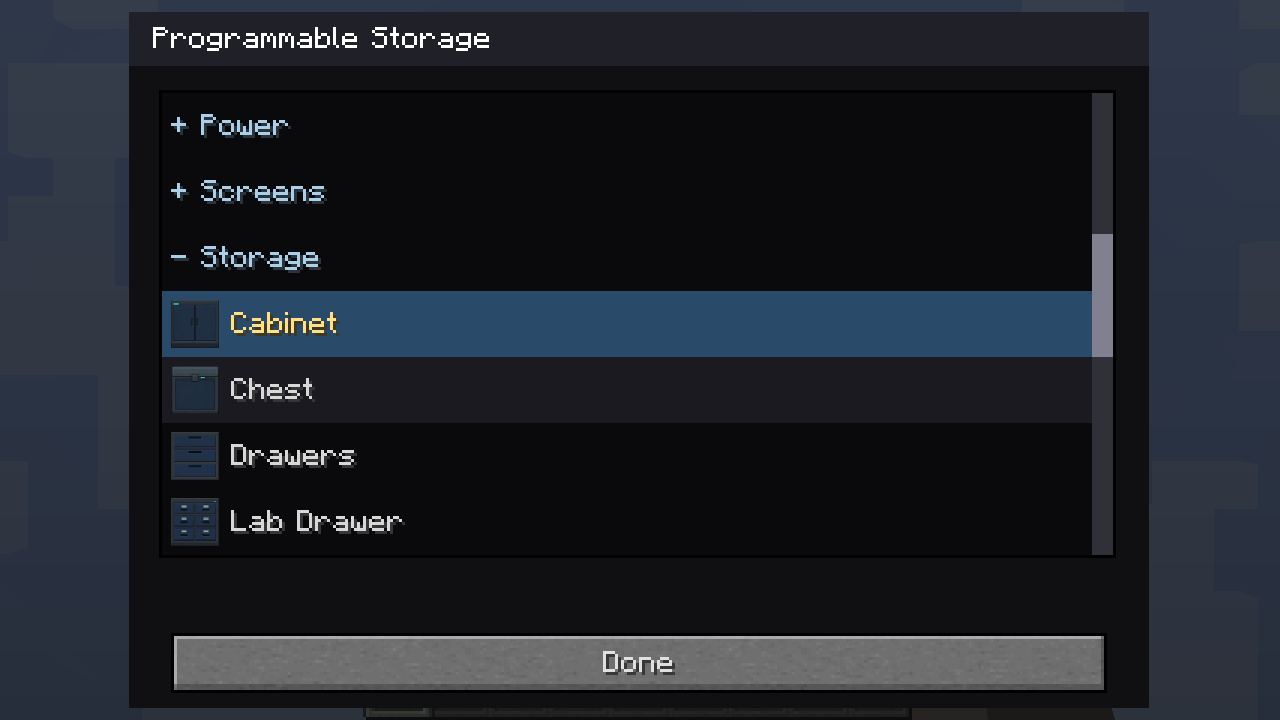
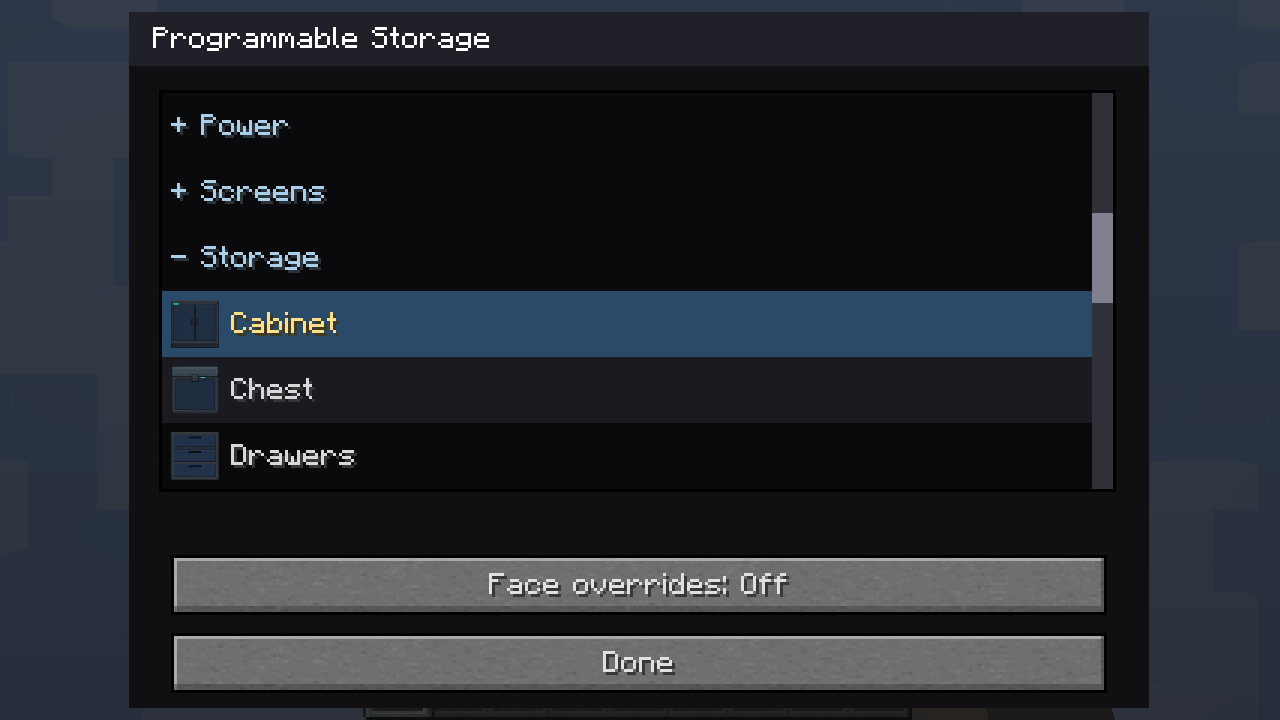
Support per-face texture overrides on programmable storage

Changed region(s): [[0.125, 0.6722, 0.875, 0.8556], [0.8438, 0.3972, 0.875, 0.5194], [0.8438, 0.275, 0.875, 0.3361]]

diff --git a/src/main/java/com/vandorlabs/client/StorageRuntimeChecks.java b/src/main/java/com/vandorlabs/client/StorageRuntimeChecks.java
@@ -31,9 +31,12 @@ final class StorageRuntimeChecks {
         for (int i = 0; i < 27; i++) tile.setInventorySlotContents(i, new ItemStack(Items.IRON_INGOT, 64));
         require(block.getComparatorInputOverride(world.getBlockState(pos), world, pos) == 15, "full comparator");
         require(tile.getStackInSlot(26).getCount() == 64, "last slot available");
+        FaceTextures overrides = new FaceTextures(true, new int[]{-1,1,3,-1,-1,-1});
+        tile.setFaceTextures(overrides);
         NBTTagCompound saved = tile.writeToNBT(new NBTTagCompound());
         TileEntityProgrammableStorage loaded = new TileEntityProgrammableStorage();
         loaded.readFromNBT(saved);
+        require(loaded.getFaceTextures().equals(overrides), "face override persistence");
         require(loaded.getStackInSlot(26).getCount() == 64, "inventory persistence");
         require(!tile.getUpdateTag().hasKey("Items"), "appearance packet contains inventory");
         require(!block.createConfiguredDrop(tile).getSubCompound("BlockEntityTag").hasKey("Items"), "pick/mining drop duplicates inventory");
@@ -43,8 +46,15 @@ final class StorageRuntimeChecks {
         require(ProgrammableSettings.apply(world, other, settings), "Duplifier applies appearance");
         require(target.getHousingTexture() == tile.getHousingTexture() && target.getStackInSlot(0).getCount() == 7
                 && target.getStackInSlot(0).getItem() == Items.DIAMOND, "copy preserves target contents");
+        require(target.getFaceTextures().equals(overrides), "copy includes face overrides");
         ItemStack configured = ProgrammableSettings.applyToItem(new ItemStack(block), settings);
         require(!configured.isEmpty() && !configured.getSubCompound("BlockEntityTag").hasKey("Items"), "crafted copy excludes inventory");
+        loaded.readFromNBT(configured.getSubCompound("BlockEntityTag"));
+        require(loaded.getFaceTextures().equals(overrides), "configured item preserves faces");
+        tile.setFaceTextures(new FaceTextures(false, new int[]{2,2,2,2,2,2}));
+        ProgrammableSettings.apply(world, other, ProgrammableSettings.capture(world, pos));
+        require(!target.getFaceTextures().enabled && target.getFaceTextures().choice(1)==1
+                && target.getStackInSlot(0).getCount()==7,"disabled copy retains stored faces and contents");
         tile.clear();
         require(block.getComparatorInputOverride(world.getBlockState(pos), world, pos) == 0, "empty comparator");
         for (EnumFacing face : EnumFacing.values()) {
@@ -109,6 +119,13 @@ final class StorageRuntimeChecks {
         for(net.minecraft.client.renderer.block.model.BakedQuad quad:model.getQuads(state.getBlock().getExtendedState(state,mc.world,pos),null,0))sprites.add(quad.getSprite().getIconName());
         require(sprites.size()==3 && sprites.contains("vandorlabs:blocks/storage/cabinet_front")
                 && sprites.contains("vandorlabs:blocks/storage/cabinet_top") && sprites.contains("vandorlabs:blocks/storage/cabinet_side"),"three matching world faces");
+        int[] sameSet={-1,ScreenHousingTextures.DEFAULT_STORAGE,-1,-1,-1,-1};
+        tile.setFaceTextures(new FaceTextures(true,sameSet));
+        java.util.List<net.minecraft.client.renderer.block.model.BakedQuad> overridden=model.getQuads(state.getBlock().getExtendedState(state,mc.world,pos),null,0);
+        require(overridden.get(0).getSprite().getIconName().endsWith("cabinet_front"),"explicit top override uses selected artwork, not set top");
+        tile.setFaceTextures(new FaceTextures(false,sameSet));
+        require(model.getQuads(state.getBlock().getExtendedState(state,mc.world,pos),null,0).get(0).getSprite().getIconName().endsWith("cabinet_top"),"disabled override restores cached set top");
+        tile.setFaceTextures(FaceTextures.DEFAULT);
         net.minecraft.client.renderer.block.model.IBakedModel item=mc.getRenderItem().getItemModelWithOverrides(new ItemStack(ModBlocks.PROGRAMMABLE_STORAGE),mc.world,mc.player);
         require(item.getParticleTexture().getIconName().equals("vandorlabs:blocks/storage/cabinet_front"),"default inventory material");
         System.out.println("[vandorlabs][reprolab] storage-material-runtime PASS");
@@ -135,6 +152,24 @@ final class StorageRuntimeChecks {
                 && sprites.contains("vandorlabs:blocks/storage/"+set+"_side") && sprites.contains("vandorlabs:blocks/storage/"+set+"_top"),"hotbar uses matching set "+set);
         }
         System.out.println("[vandorlabs][reprolab] storage-hotbar-runtime PASS");
+    }
+
+    static void beginFaces(GuiProgrammableWall gui) {
+        gui.actionPerformed(new net.minecraft.client.gui.GuiButton(106,0,0,""));
+        gui.actionPerformed(new net.minecraft.client.gui.GuiButton(107,0,0,""));
+        gui.actionPerformed(new net.minecraft.client.gui.GuiButton(107,0,0,""));
+        try {
+            java.lang.reflect.Method choose=GuiProgrammableWall.class.getDeclaredMethod("choose",int.class);
+            choose.setAccessible(true);choose.invoke(gui,ScreenHousingTextures.DEFAULT_STORAGE);
+        } catch(ReflectiveOperationException e){throw new IllegalStateException(e);}
+    }
+    static void checkFaces(net.minecraft.client.Minecraft mc, BlockPos pos, boolean inherited) {
+        for(World world:new World[]{mc.world,mc.getIntegratedServer().getWorld(0)}) {
+            TileEntityProgrammableStorage tile=(TileEntityProgrammableStorage)world.getTileEntity(pos);
+            require(tile.getFaceTextures().enabled && tile.getFaceTextures().choice(1)==(inherited?-1:ScreenHousingTextures.DEFAULT_STORAGE),"face picker synchronized "+inherited);
+            if(!world.isRemote)require(tile.getStackInSlot(0).getCount()==32,"face picker preserves inventory");
+        }
+        System.out.println("[vandorlabs][reprolab] storage-faces-gui PASS " +(inherited?"inherited":"override"));
     }
 
 }

diff --git a/src/main/java/com/vandorlabs/client/ProgrammableHousingModel.java b/src/main/java/com/vandorlabs/client/ProgrammableHousingModel.java
@@ -68,19 +68,20 @@ public final class ProgrammableHousingModel implements IBakedModel {
             EnumFacing worldFace = worldFace(FACE[local], facing);
             if ((visible & (1 << worldFace.getIndex())) == 0) continue;
             int texture = faces.texture(FACE[local].getIndex(), finish);
+            final boolean storageSet = storage && !(faces.enabled && faces.choice(FACE[local].getIndex()) >= 0);
             long key = (((((long)texture * 6 + facing.getIndex()) * 2 + (upper ? 1 : 0)) * 2
-                    + (tileSides != 0 ? 1 : 0)) * 6 + local);
+                    + (tileSides != 0 ? 1 : 0)) * 6 + local) * 2 + (storageSet ? 1 : 0);
             final int faceIndex = local;
             final boolean tiled = tileSides != 0;
             result.add(variants.computeIfAbsent(key,
-                    ignored -> build(texture, facing, upper, tiled, faceIndex)));
+                    ignored -> build(texture, facing, upper, tiled, faceIndex, storageSet)));
         }
         return result;
     }
 
-    private BakedQuad build(int finish, EnumFacing facing, boolean upper, boolean tileSides, int i) {
+    private BakedQuad build(int finish, EnumFacing facing, boolean upper, boolean tileSides, int i, boolean storageSet) {
         TextureAtlasSprite sprite = Minecraft.getMinecraft().getTextureMapBlocks()
-                .getAtlasSprite(storage ? ScreenHousingTextures.storageTexture(finish, FACE[i]) : ScreenHousingTextures.texture(finish));
+                .getAtlasSprite(storageSet ? ScreenHousingTextures.storageTexture(finish, FACE[i]) : ScreenHousingTextures.texture(finish));
         ScreenHousingMesh mesh = slab ? ScreenHousingMesh.slab(upper, tileSides)
                 : ScreenHousingMesh.cube();
         int rotation = ((int)(180 - facing.getHorizontalAngle()) / 90) & 3;

diff --git a/src/main/java/com/vandorlabs/items/ProgrammableSettings.java b/src/main/java/com/vandorlabs/items/ProgrammableSettings.java
@@ -148,7 +148,7 @@ public final class ProgrammableSettings {
         } else if (tile instanceof TileEntityAnimatedScreenSelector) {
             TileEntityAnimatedScreenSelector screen = (TileEntityAnimatedScreenSelector) tile;
             out.setInteger(WALL_TEXTURE, screen.getHousingTexture());
-            if (block == ModBlocks.PROGRAMMABLE_BLOCK || block == ModBlocks.PROGRAMMABLE_SLAB || block == ModBlocks.PROGRAMMABLE_STAIRS) {
+            if (block == ModBlocks.PROGRAMMABLE_STORAGE || block == ModBlocks.PROGRAMMABLE_BLOCK || block == ModBlocks.PROGRAMMABLE_SLAB || block == ModBlocks.PROGRAMMABLE_STAIRS) {
                 NBTTagCompound faces = new NBTTagCompound();
                 faces.setBoolean("enabled", screen.getFaceTextures().enabled);
                 if (screen.getFaceTextures().enabled)
@@ -382,7 +382,7 @@ public final class ProgrammableSettings {
                 screen.setHousingTexture(values.getInteger(WALL_TEXTURE));
                 applicable = true;
             }
-            if ((block == ModBlocks.PROGRAMMABLE_BLOCK || block == ModBlocks.PROGRAMMABLE_SLAB || block == ModBlocks.PROGRAMMABLE_STAIRS)
+            if ((block == ModBlocks.PROGRAMMABLE_STORAGE || block == ModBlocks.PROGRAMMABLE_BLOCK || block == ModBlocks.PROGRAMMABLE_SLAB || block == ModBlocks.PROGRAMMABLE_STAIRS)
                     && values.hasKey(FACE_TEXTURES, 10)) {
                 NBTTagCompound faces = values.getCompoundTag(FACE_TEXTURES);
                 boolean enabled = faces.getBoolean("enabled");

diff --git a/src/main/java/com/vandorlabs/network/MessageFaceTextures.java b/src/main/java/com/vandorlabs/network/MessageFaceTextures.java
@@ -10,7 +10,7 @@ import net.minecraft.tileentity.TileEntity;
 import net.minecraft.util.math.BlockPos;
 import net.minecraftforge.fml.common.network.simpleimpl.*;
 
-/** Configures optional local-face overrides for the full block and slab. */
+/** Configures optional local-face overrides for supported programmable solid blocks. */
 public final class MessageFaceTextures implements IMessage {
     private BlockPos pos;
     private boolean enabled;
@@ -35,7 +35,7 @@ public final class MessageFaceTextures implements IMessage {
                         || !com.vandorlabs.items.ConfigurationAccess.canConfigure(player)
                         || !(player.openContainer instanceof ContainerAnimatedScreenSelector)) return;
                 net.minecraft.block.Block block = player.world.getBlockState(msg.pos).getBlock();
-                if (block != ModBlocks.PROGRAMMABLE_BLOCK && block != ModBlocks.PROGRAMMABLE_SLAB && block != ModBlocks.PROGRAMMABLE_STAIRS) return;
+                if (block != ModBlocks.PROGRAMMABLE_STORAGE && block != ModBlocks.PROGRAMMABLE_BLOCK && block != ModBlocks.PROGRAMMABLE_SLAB && block != ModBlocks.PROGRAMMABLE_STAIRS) return;
                 for (int choice : msg.choices)
                     if (choice < -1 || (choice!=-1 && !com.vandorlabs.tiles.ScreenHousingTextures.validChoice(choice))) return;
                 ContainerAnimatedScreenSelector container = (ContainerAnimatedScreenSelector) player.openContainer;

diff --git a/src/main/java/com/vandorlabs/client/ReproLab.java b/src/main/java/com/vandorlabs/client/ReproLab.java
@@ -1297,6 +1297,17 @@ public class ReproLab {
                 StorageRuntimeChecks.require(mc.currentScreen instanceof GuiProgrammableWall,"creative shift interaction opens shared picker");
                 save(mc,new Shot("gallery_storage_picker",0,0,0,0,0));
                 System.out.println("[vandorlabs][reprolab] storage-gui-runtime PASS");
+                StorageRuntimeChecks.beginFaces((GuiProgrammableWall)mc.currentScreen);
+                state=105;holdTicks=30;break;
+            case 105:
+                if(--holdTicks>0)break;
+                StorageRuntimeChecks.checkFaces(mc,new BlockPos(GALLERY_X-4,GALLERY_Y,-18),false);
+                save(mc,new Shot("gallery_storage_face_overrides",0,0,0,0,0));
+                ((GuiProgrammableWall)mc.currentScreen).actionPerformed(new net.minecraft.client.gui.GuiButton(108,0,0,""));
+                state=106;holdTicks=30;break;
+            case 106:
+                if(--holdTicks>0)break;
+                StorageRuntimeChecks.checkFaces(mc,new BlockPos(GALLERY_X-4,GALLERY_Y,-18),true);
                 mc.player.closeScreen();
                 for(int slot=0;slot<3;slot++)mc.player.inventory.setInventorySlotContents(slot,StorageRuntimeChecks.hotbarStack(slot));
                 onServer(mc, () -> {

diff --git a/src/main/java/com/vandorlabs/client/GuiProgrammableWall.java b/src/main/java/com/vandorlabs/client/GuiProgrammableWall.java
@@ -40,7 +40,8 @@ public class GuiProgrammableWall extends GuiContainer {
     private static final String[] FACE_NAMES = {"Bottom", "Top", "Front", "Back", "Left", "Right"};
     private boolean supportsFaces() {
         net.minecraft.block.Block block = tile.getBlockType();
-        return block == com.vandorlabs.blocks.ModBlocks.PROGRAMMABLE_BLOCK || slab;
+        return block == com.vandorlabs.blocks.ModBlocks.PROGRAMMABLE_STORAGE
+                || block == com.vandorlabs.blocks.ModBlocks.PROGRAMMABLE_BLOCK || slab;
     }
     private int selectedTexture() {
         return faceTarget < 0 ? tile.getHousingTexture()
@@ -95,7 +96,7 @@ public class GuiProgrammableWall extends GuiContainer {
         if (diagonal) ySize += 26;
         if (tile instanceof com.vandorlabs.tiles.TileEntityProgrammableStorage) {
             ySize = Math.min(height - 8, 264);
-            rows = Math.max(4, (ySize - 60) / ROW_H);
+            rows = Math.max(4, (ySize - 86 - (tile.getFaceTextures().enabled ? 52 : 0)) / ROW_H);
         }
         while (ySize > height-8 && rows > (diagonal && porthole ? 2 : 3)) { rows--; ySize-=ROW_H; }
         super.initGui();

diff --git a/testclient/validate_focused_gallery.py b/testclient/validate_focused_gallery.py
@@ -27,7 +27,7 @@ for name in selected:
 require('custom-materials-runtime PASS')
 require('imported-materials-runtime PASS')
 if target == 'storage':
-    for marker in ('storage-inventory-runtime PASS','storage-material-runtime PASS','storage-gui-runtime PASS','storage-hotbar-runtime PASS'):
+    for marker in ('storage-inventory-runtime PASS','storage-material-runtime PASS','storage-gui-runtime PASS','storage-hotbar-runtime PASS','storage-faces-gui PASS override','storage-faces-gui PASS inherited'):
         require(marker)
 if target == 'trapdoors':
     for marker in ['sliding-next-mount-overlap-runtime PASS client closed',

diff --git a/testclient/export_gallery.py b/testclient/export_gallery.py
@@ -11,6 +11,7 @@ from pathlib import Path
 ROOT = Path(__file__).resolve().parents[1]
 DEST = ROOT / "docs/images/gallery"
 SHOTS = {
+    "gallery_storage_face_overrides": "storage/face-overrides.png",
     "gallery_storage_hotbar": "storage/hotbar.png",
     "gallery_storage_sets": "storage/sets.png",
     "gallery_storage_inventory": "storage/inventory.png",

diff --git a/docs/programmable-storage.md b/docs/programmable-storage.md
@@ -16,6 +16,17 @@ have matching front, side and top artwork. The back uses the side, and the
 underside uses the top. Other categories, filesystem textures and Custom block
 samples apply the selected finish to all six faces.
 
+Enable **Face overrides** to choose separate Bottom, Top, Front, Back, Left and
+Right textures, just like Programmable Block. Directions are relative to the
+storage block's front. Choose **Main** to change the overall finish; choose a
+face to override only that surface. **Use main texture** restores that face's
+normal artwork from the main set (including its matching top or side).
+An explicit Storage-category override uses the selected front artwork shown in
+the picker. Overrides start disabled; switching them off preserves the saved
+face choices. Configured items and the Duplifier preserve these settings, while
+a disabled Duplifier source leaves the destination's saved face choices intact.
+Inventory contents are unaffected.
+
 The Storage category is available in every shared material picker. Other
 programmable blocks use the selected set's front artwork as their material.
 
@@ -38,6 +49,8 @@ storage finishes are rendered in Minecraft.
 ![27-slot storage inventory](images/gallery/storage/inventory.png)
 
 ![Shared storage texture picker](images/gallery/storage/picker.png)
+
+![Storage face overrides](images/gallery/storage/face-overrides.png)
 
 ![Default and configured storage hotbar icons](images/gallery/storage/hotbar.png)
 

diff --git a/docs/unified-materials.md b/docs/unified-materials.md
@@ -6,7 +6,7 @@ Built-in categories include Materials, Texture Pack 1, Texture Pack 2, Hull Plat
 
 ## Choose a surface
 
-Shift-right-click in Creative mode, or open the block's menu with the Configurizer. Choose a category and material. Lights have separate face and housing lists; triggers have Off and On lists. Blocks and slabs retain their optional per-face overrides.
+Shift-right-click in Creative mode, or open the block's menu with the Configurizer. Choose a category and material. Lights have separate face and housing lists; triggers have Off and On lists. Blocks, slabs and storage offer optional per-face overrides. Storage faces that inherit the main finish retain its matching top/side/front artwork.
 
 For screens, inputs and consoles, open **Surface textures** to choose a static front surface. Consoles also have a second surface choice. **Use screen / animation** restores the original configured screen or control panel. The native screen/control lists now use the same categorized thumbnail presentation, containing their original options. They still select the original animated screen or control family: Off/Static/Animated, speed and frame controls retain their behavior. Selecting a native option restores that surface from a static override. Housing lists use the shared material catalog.
 

diff --git a/CHANGELOG.md b/CHANGELOG.md
@@ -2,6 +2,8 @@
 
 ## Unreleased
 
+- Programmable Storage now supports optional per-face texture overrides, including inherited Storage-set faces, configured-item persistence and Duplifier copying without changing inventory contents.
+
 - Added Programmable Storage: 27 inventory slots, hopper/item-handler access, comparator output, shared material picker and matching top/side/front Storage sets. Defaults to Cabinet; crafted from a chest and Programmable Block. Appearance copying preserves target contents, and mining drops contents separately.
 
 - Added ten Storage material sets from supplied top/side/front sheets, split into 30 crisp 140×140 textures.
